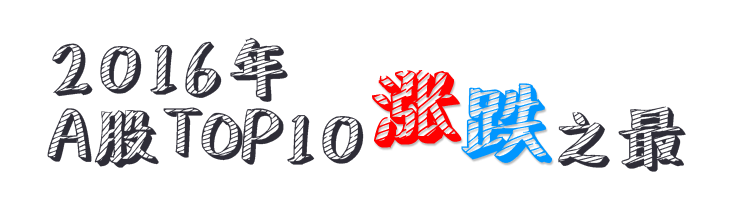
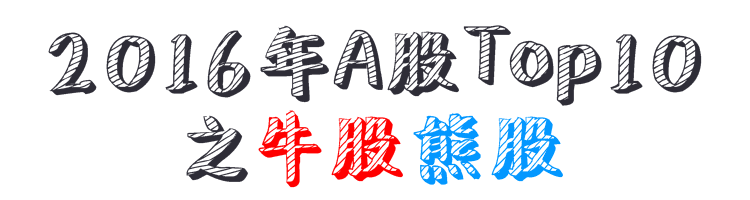
modified title and png

diff --git a/index.html b/index.html
@@ -2,7 +2,7 @@
 <html lang="en">
 <head>
     <meta charset="UTF-8">
-    <title>2016年A股Top10涨跌之最</title>
+    <title>2016年A股Top10之牛股熊股</title>
     <meta http-equiv="Content-Type" content="text/html; charset=utf-8">
     <meta http-equiv="X-UA-Compatible" content="IE=edge,chrome=1">
     <meta name="renderer" content="webkit">
@@ -30,7 +30,7 @@
         wx.ready(function () {
 
             wx.onMenuShareTimeline({
-                title: "2016年Top10涨跌之最",
+                title: "2016年Top10牛股熊股",
                 link: "http:\/\/test.bao.wallstreetcn.com:3000\/web\/subjects\/226?isshare=true\x26winzoom=1",
                 imgUrl: "http:\/\/image.bao.wallstreetcn.com\/FnexLqknMEjXtq7ay3pwdAJ0-Avw",
                 success: function () {
@@ -44,7 +44,7 @@
 
 
             wx.onMenuShareAppMessage({
-                title: "2016年Top10涨跌之最",
+                title: "2016年A股Top10之牛股熊股",
                 desc: "月有阴晴圆缺，股有涨涨跌跌",
                 link: "http:\/\/test.bao.wallstreetcn.com:3000\/web\/subjects\/226?isshare=true\x26winzoom=1",
                 imgUrl: "http:\/\/image.bao.wallstreetcn.com\/FnexLqknMEjXtq7ay3pwdAJ0-Avw",
@@ -62,7 +62,7 @@
 
 
             wx.onMenuShareQQ({
-                title: "2016年Top10涨跌之最",
+                title: "2016年Top10之牛股熊股",
                 desc: "月有阴晴圆缺，股有涨涨跌跌",
                 link: "http:\/\/test.bao.wallstreetcn.com:3000\/web\/subjects\/226?isshare=true\x26winzoom=1",
                 imgUrl: "http:\/\/image.bao.wallstreetcn.com\/FnexLqknMEjXtq7ay3pwdAJ0-Avw",
@@ -77,7 +77,7 @@
             });
 
             wx.onMenuShareTimeline({
-                title: "2016年Top10涨跌之最", // 分享标题
+                title: "2016年Top10之牛股熊股", // 分享标题
                 link: 'http:\/\/test.bao.wallstreetcn.com:3000\/web\/subjects\/226?isshare=true\x26winzoom=1', // 分享链接
                 imgUrl: 'http:\/\/image.bao.wallstreetcn.com\/FnexLqknMEjXtq7ay3pwdAJ0-Avw', // 分享图标
                 success: function () {
@@ -97,7 +97,7 @@
 <body>
 <img id="share-pic" src="https://baodownload.wallstreetcn.com/huodong-toop10.jpg" alt="2016Top10涨跌">
 <div class="layout">
-    <div class="page0">
+    <div class="page0" >
         <div class="imgbox ">
             <img class="fontimg1" src="./images-wt/fontpage/font.png" alt="">
             <img class="fontimg2" src="./images-wt/fontpage/fontword.png" alt="">
@@ -552,7 +552,7 @@
             <img src="./images-wt/end/tanchuang.png" alt="">
             <span class="cha" id="shutdown">×</span>
             <div class="contentbox">
-                <p>我猜对了<span class="red" id="finalnumber">3</span>个年度涨跌之最</p>
+                <p>我猜对了<span class="red" id="finalnumber">3</span>只股票</p>
                 <div class="red text" id="finalText">
                     <p>来年坚定小目标</p>
                     <p>股市不再葛优躺</p>

diff --git a/js/index.js b/js/index.js
@@ -1,5 +1,24 @@
 $(function () {
-    //首页开启定时动画效果
+
+    $(".page6button img").click(function () {
+
+        ga('send', 'event', { eventCategory: 'Top10涨跌继续挑战',
+            eventAction: 'click',
+            eventLabel: 'Top10涨跌之最'});
+    })
+    $(".page11 .download").click(function (e) {
+        e.preventDefault();
+        ga('send', 'event', {
+            eventCategory: 'Top10涨跌立即下载点击量',
+            eventAction: 'click',
+            eventLabel: 'Top10涨跌之最'}
+        );
+        setTimeout(function () {
+            window.location.href="http://bao.wallstreetcn.com/static/app.html?from=topzd";
+        },500)
+    })
+    //首页
+    // 开启定时动画效果
     setTimeout(function () {
         $(".page0").addClass('current');
     },1000)
@@ -27,7 +46,7 @@ $(function () {
             count++;
         }
 
-        console.log(count);
+        // console.log(count);
     })
 
 
@@ -175,11 +194,16 @@ $(function () {
             $("#finalnumber").html(count);
             if(count>=0&&count<=3){
                 $("#finalText").html("<p>韭菜如我香飘飘</p>");
+                document.title="韭菜如我香飘飘";
+
 
             }else if(count>=4&&count<=7){
                 $("#finalText").html("<p>来年坚定小目标，</p><p>股市不再葛优躺！</p>");
+                document.title="来年坚定小目标,股市不再葛优躺!";
             }else if(count>=8){
                 $("#finalText").html("<p>追涨杀跌我最行！</p>");
+                document.title="追涨杀跌我最行！"
+
             }
             $(".page11").show();
 
@@ -196,21 +220,5 @@ $(function () {
     })
 
 
-    $(".page6button img").click(function () {
 
-        ga('send', 'event', { eventCategory: 'Top10涨跌继续挑战',
-            eventAction: 'click',
-            eventLabel: 'Top10涨跌之最'});
-    })
-    $(".page11 .download").click(function (e) {
-        e.preventDefault();
-        ga('send', 'event', {
-            eventCategory: 'Top10涨跌立即下载点击量',
-            eventAction: 'click',
-            eventLabel: 'Top10涨跌之最'}
-        );
-        setTimeout(function () {
-            window.location.href="http://bao.wallstreetcn.com/static/app.html?from=topzd";
-        },500)
-    })
 })

diff --git a/css/index.css b/css/index.css
@@ -138,9 +138,9 @@ html {
 
     width: 100%;
     color: #fff;
-    padding:0.1rem 0;
+    padding:0.2rem 0;
     position:absolute;
-    bottom:1%;
+    bottom:2%;
 
 }
 .page .logo img{
@@ -197,8 +197,8 @@ html {
 .page .answers {
     position: relative;
     width: 100%;
-    margin-top: 0.3rem;
-    padding-bottom: 0.8rem;
+    margin-top: 0.2rem;
+    padding-bottom: 0.7rem;
 
 }
 .page .inputbox {
